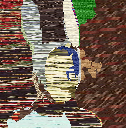
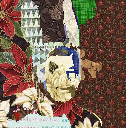
fix texture scaling

diff --git a/segment.py b/segment.py
@@ -7,8 +7,7 @@ from skimage.util import img_as_float
 from glob import glob
 from functools import partial
 import json, time, random
-
-io.use_plugin('pil')
+from PIL import Image
 
 norm_cache = {}
 def norms(mat):
@@ -19,32 +18,25 @@ def norms(mat):
         norm_cache[id(mat)] = res
         return res
 
+def load_image(fname):
+    return Image.open(fname).convert('RGB')
+
 class Segmentation(object):
 
     def __init__(self, fname):
         self.fname = fname
-        self.image_cache = {}
 
         print 'loading image'
-        self.raw_img = io.imread(fname)
+        img = Image.open(fname)
+        img.thumbnail((800, 600), Image.ANTIALIAS)
+        self.raw_img = np.array(img.convert('RGB'))
         self._segment_ids = None
         img_float = img_as_float(self.raw_img)
         print 'segmenting image'
         self.segments = felzenszwalb(img_float, scale=300, sigma=0.5, min_size=100)
 
     def load_image(self, fname, shape):
-        key = (fname, shape)
-        if key in self.image_cache:
-            return self.image_cache[key]
-        texture = io.imread(fname)
-        #texture = transform.resize(texture, (shape[0], shape[1], texture.shape[2]))
-        texture = np.resize(texture, (shape[0], shape[1], texture.shape[2]))
-        #texture.resize((shape[0], shape[1], texture.shape[2]))
-        ks = self.image_cache.keys()
-        if len(ks) > 100:
-            del self.image_cache[ks[0]]
-        self.image_cache[key] = texture
-        return texture
+        return np.array(load_image(fname).resize((shape[1], shape[0])))
 
     def segment_mask(self, segment_id):
         mask = np.empty(self.segments.shape)
@@ -70,9 +62,6 @@ class Segmentation(object):
             mask = self.segment_mask(segment_id)
             vector = feature_vector(self.raw_img[np.nonzero(mask)])
 
-            #distances = np.sqrt(np.sum((vectors - vector)**2, axis=1)) # euclidian
-            #distances = np.apply_along_axis(partial(distance.cosine, vector), axis=1, arr=vectors) # cosine
-
             # compute cosine similarity
             dots = np.einsum('ij,ij->i', vectors, np.resize(vector, vectors.shape))
             v_norm = np.resize(distance.norm(vector), vectors.shape[0])
@@ -82,11 +71,8 @@ class Segmentation(object):
 
             idx = np.argmax(similarities)
             fname = fnames[idx]
-            texture = self.load_image(fname, mask.shape)
+            texture = self.load_image(fname, self.raw_img.shape)
             self.raw_img[mask] = texture[mask]
-
-    def show(self):
-        io.imshow(self.raw_img)
 
     def save(self, fname):
         io.imsave(fname, self.raw_img)
@@ -100,7 +86,7 @@ def vectors_from_images(fnames):
     vectors = []
     for fname in fnames:
         print fname
-        img = io.imread(fname)
+        img = load_image(fname)
         vec = feature_vector(img)
         vectors.append(vec)
     return np.array(vectors)
